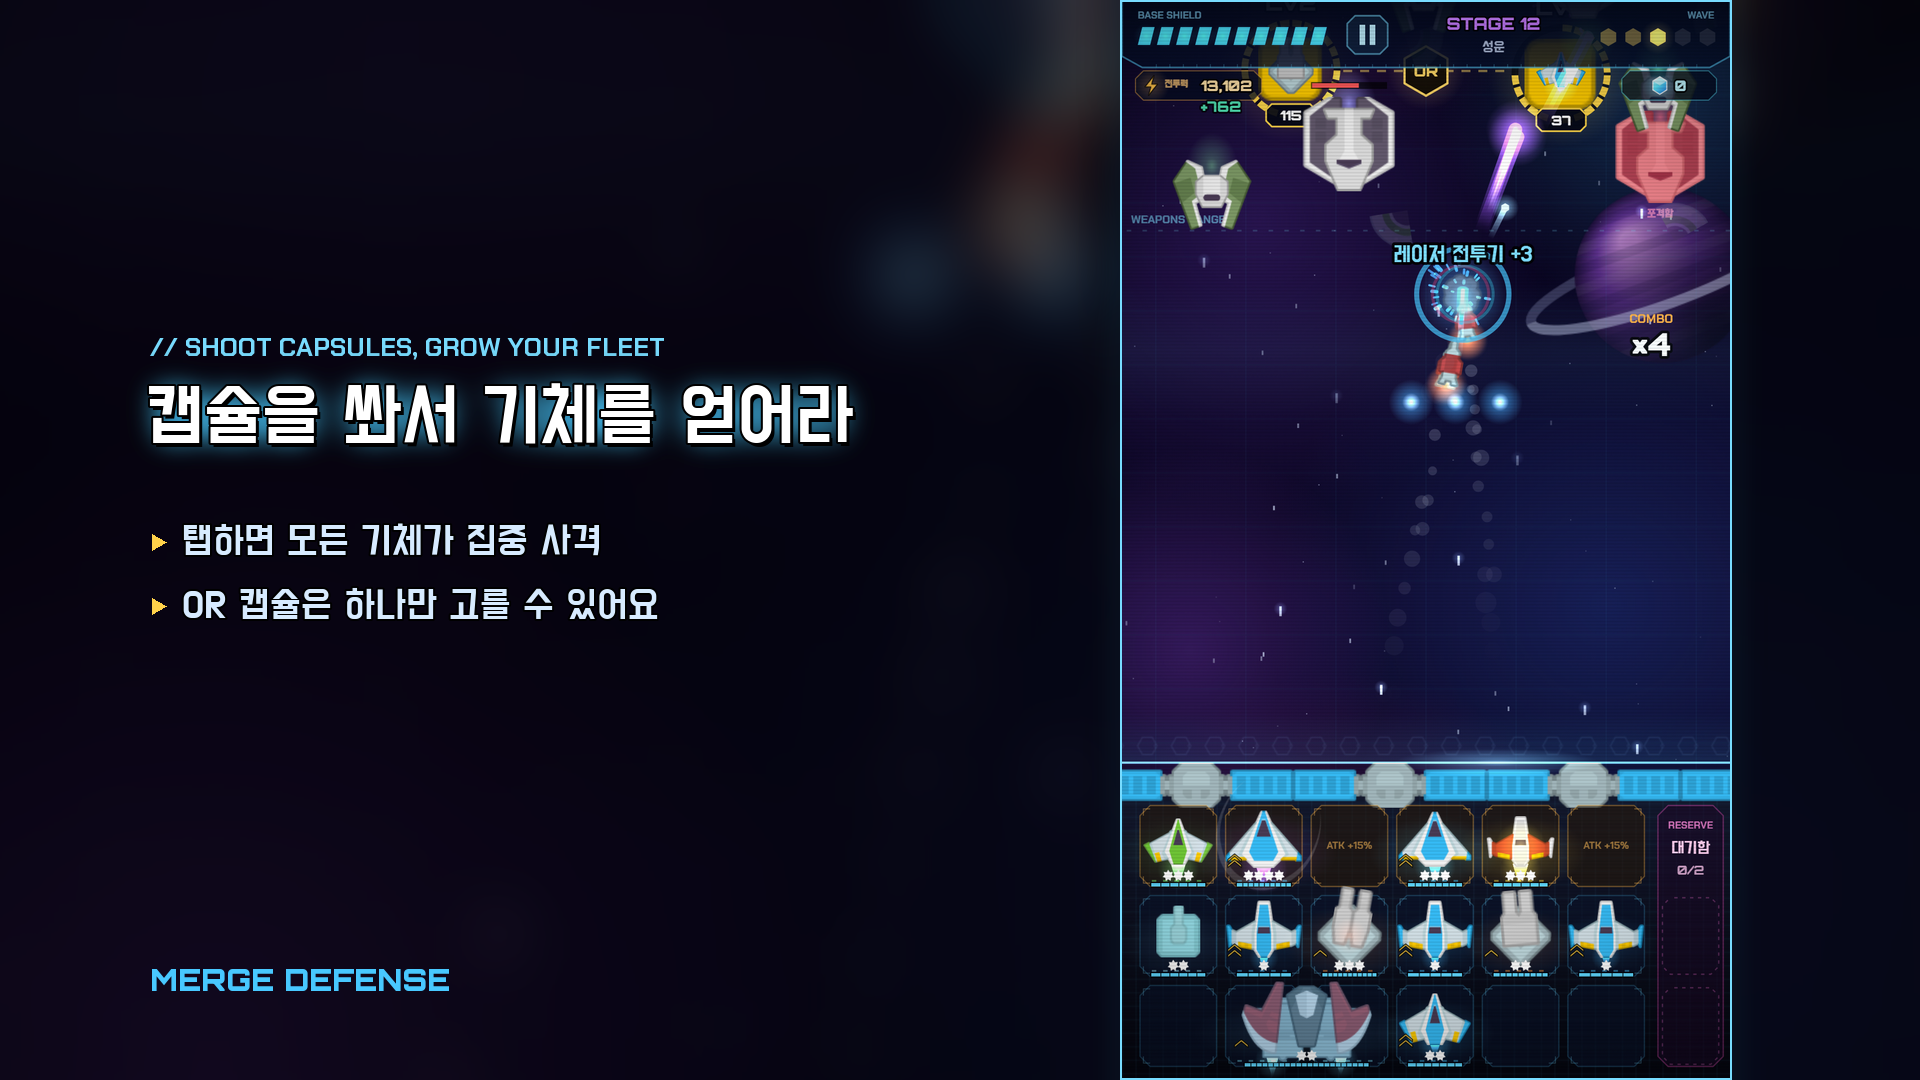
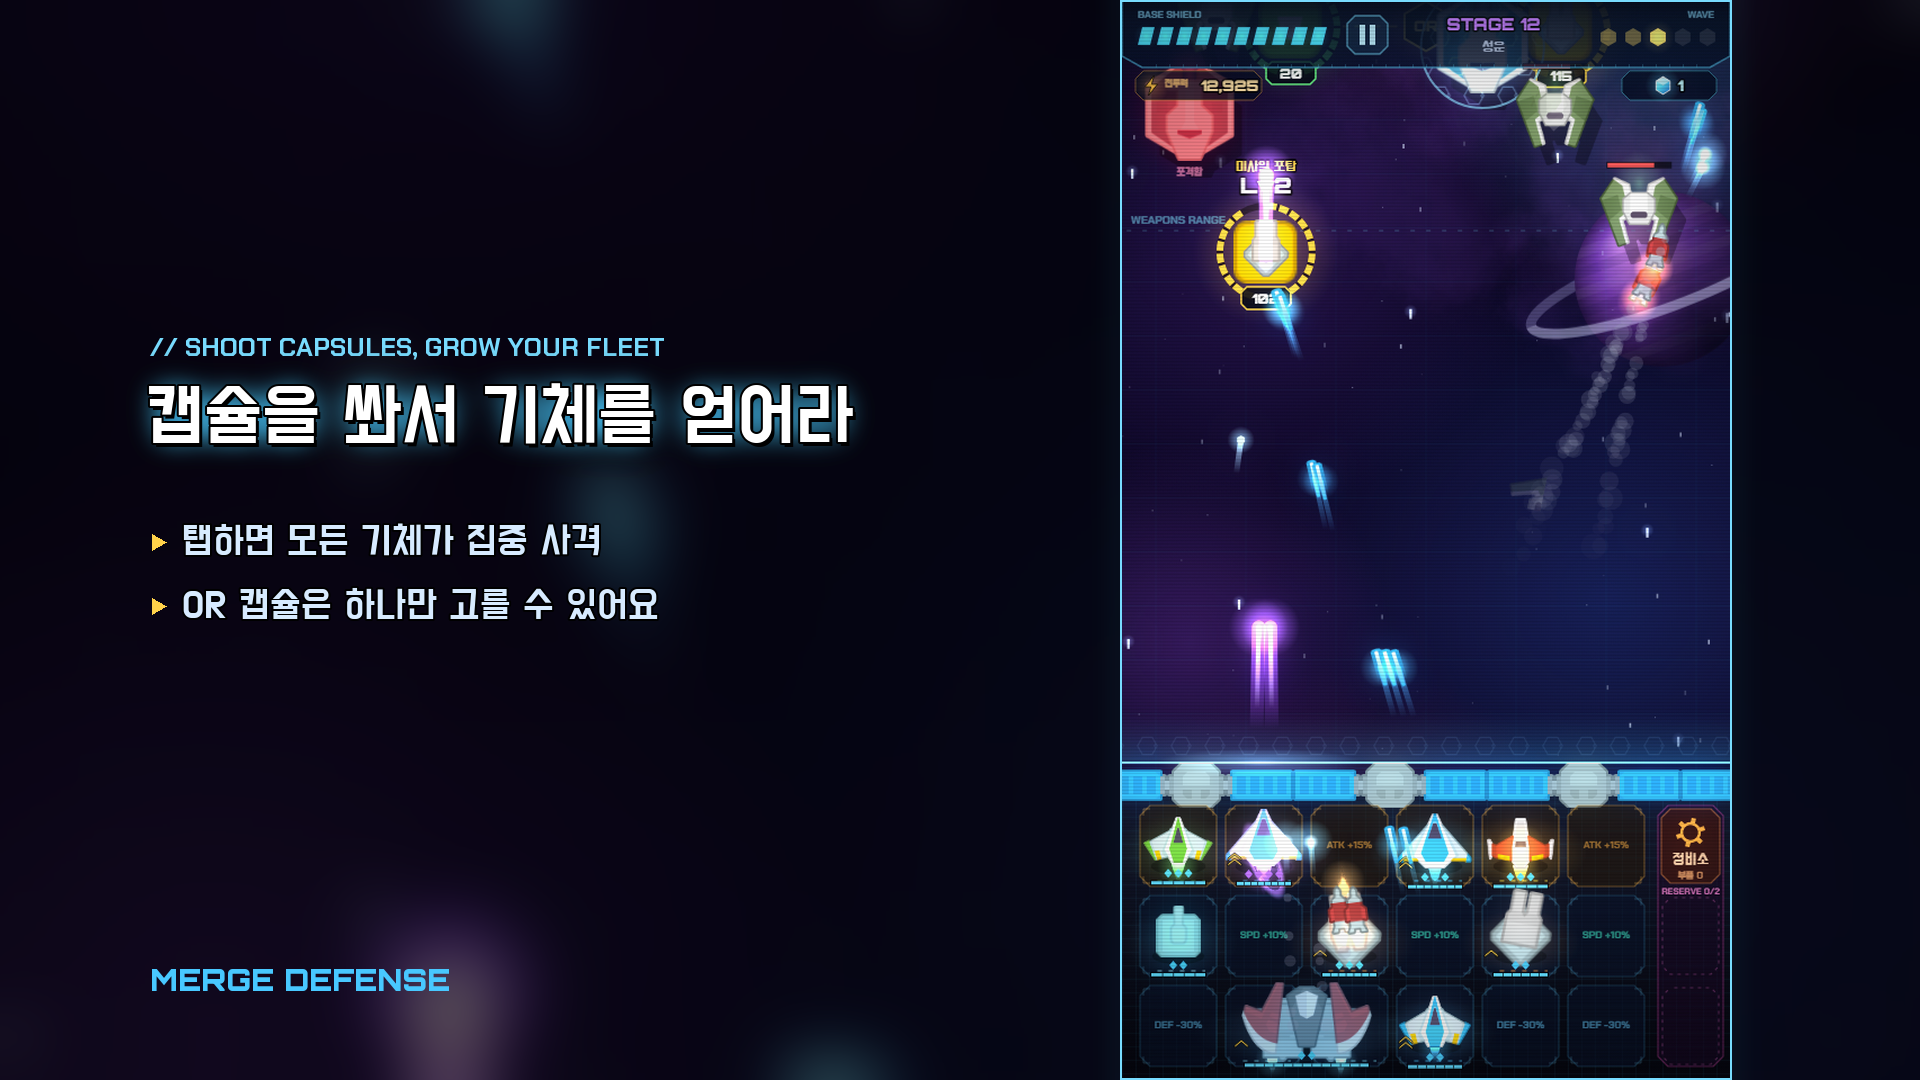
SKEAM 등록 자료 갱신: 초월 합체 · 위기 웨이브 스크린샷, 소개문에 정비소 · 무한 주기 추가

diff --git a/index.html b/index.html
@@ -4078,7 +4078,8 @@ function setupShot(k) {
   } else if (k === 'merge') {
     PROG.deck = ['f', 't', 'e', 'b', 'c'];
     startStage(7); shotArmy(army); S.wave = 1; startWave(2); shotRun(60 * 7);
-    const a = makeUnit('f', 3), b = makeUnit('f', 3); place(a, [2]); place(b, [5]); doMerge(a, b); S.skillPop.t = 0.3;
+    const a = makeUnit('f', 5), b = makeUnit('f', 5); place(a, [2]); place(b, [5]); doMerge(a, b); S.skillPop.t = 0.3; S.hint = null; S.hintQueue = [];
+    for (const f of S.fx) f.t = Math.max(f.t, 0.12); S.whiteFlash = 0.05; S.punch = 0; S.frozen = true;   // 초월 팝업이 떠 있는 순간에 멈춘다
   } else if (k === 'hangar') {
     S = { mode: 'hangar' }; UI.card = { type: 'b' };
     UI.upFx = { type: 'b', mk: 5, t0: performance.now() / 1000 - 0.35, milestone: false, max: false }; PROG.mk.b = 5;
